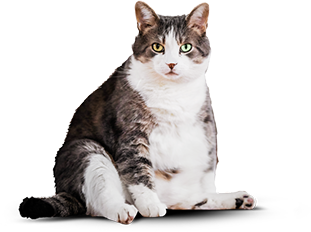
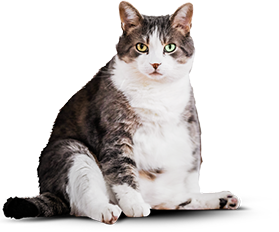
Заканчивает PP index mobile

diff --git a/source/sass/blocks/example.scss b/source/sass/blocks/example.scss
@@ -1,7 +1,7 @@
 .example {
   position: relative;
   padding-top: 27px;
-  padding-bottom: 70px;
+  padding-bottom: 38px;
   background-color: $slider_grey;
 
   @media (min-width: $tablet-width) {
@@ -126,18 +126,9 @@
   }
 }
 
-// .example__item-text--days {
-//   @media (min-width: $tablet-width) {
-//     padding: 0 10px;
-//     width: 80%;
-//     bottom: -5px;
-//     left: 12%;
-// //   }
-// }
-
 .example__subtext {
   margin: 0;
-  margin-top: 27px;
+  margin-top: 17px;
   font-family: $font_custom;
   font-size: 14px;
   line-height: 20px;
@@ -162,7 +153,6 @@
 
 .example__subtext-inner {
   display: inline-block;
-  padding-left: 7px;
 
   @media (min-width: $tablet-width) {
     display: block;

diff --git a/source/sass/blocks/slider.scss b/source/sass/blocks/slider.scss
@@ -2,9 +2,9 @@
   display: flex;
   align-items: center;
   justify-content: space-between;
-  margin-top: 23px;
-  margin-right: 20px;
-  margin-left: 20px;
+  margin-top: 28px;
+  margin-right: 33px;
+  margin-left: 38px;
 }
 
 .slider__button-text {
@@ -38,6 +38,9 @@
 }
 
 .slider__cat {
+  width: 320px;
+  height: 232px;
+
   @media (min-width: $tablet-width) {
     position: absolute;
     width: 600px;
@@ -57,7 +60,7 @@
 .slider__scale {
   display: flex;
   align-items: center;
-  width: 50%;
+  width: 42%;
   height: 14px;
   padding: 4px 6px;
   border: 1px solid $special_grey;

diff --git a/source/sass/blocks/desc.scss b/source/sass/blocks/desc.scss
@@ -98,7 +98,7 @@
 .desc__text {
   font-family: $font_basic;
   margin: 0;
-  padding-left: 75px;
+  padding-left: 80px;
 
   @media (min-width: $tablet-width) {
     padding-left: 0;

diff --git a/source/sass/blocks/form.scss b/source/sass/blocks/form.scss
@@ -93,10 +93,6 @@
   }
 }
 
-.form__group .text-field__input--textarea::placeholder {
-  display: block;
-}
-
 .form__field {
   margin-bottom: 13px;
 

diff --git a/source/sass/blocks/social.scss b/source/sass/blocks/social.scss
@@ -15,7 +15,7 @@
   }
 
   &:last-child {
-    margin-right: 0;
+    margin-right: 10px;
   }
 }
 
